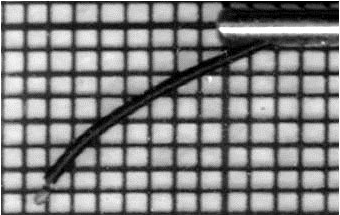
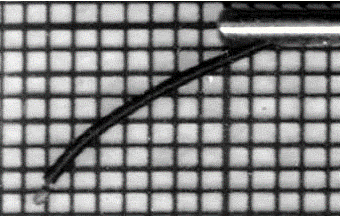
modified ModelStimulator and changed stimulator images

diff --git a/ModelStimulator.m b/ModelStimulator.m
@@ -3,53 +3,79 @@
 % open the stimulator image
 
 FigurePath = '.\';
-FigureName = 'Stimulator_long.png';
+FigureNameShort = 'Stimulator_short.png';
+FigureNameLong = 'Stimulator_long.png';
 
-StimulatorImage = imread([FigurePath,'\',FigureName]);
-StimulatorImage = rgb2gray(StimulatorImage);
+StimulatorImageShort = imread([FigurePath,'\',FigureNameShort]);
+StimulatorImageShort = rgb2gray(StimulatorImageShort);
+StimulatorImageLong = imread([FigurePath,'\',FigureNameLong]);
+StimulatorImageLong = rgb2gray(StimulatorImageLong);
 
-%% Sample the Stimulator Shape
+
+%% Resize Images to match
 
 % set the mm scale on the image
 figure('units','normalized','outerposition',[0 0 1 1])
-imagesc(double(StimulatorImage));colormap(jet);axis image
+imagesc(double(StimulatorImageShort));colormap(jet);axis image
 display('how much is 1 mm on this image? - select two points in 1 mm distance');
-[x_mm_scale,y_mm_scale] = ginput(2);
-if abs(x_mm_scale(1) - x_mm_scale(2)) > abs(y_mm_scale(1) - y_mm_scale(2))
-    mm_scale = abs(x_mm_scale(1) - x_mm_scale(2));
+[x_mm_scale_s,y_mm_scale_s] = ginput(2);
+if abs(x_mm_scale_s(1) - x_mm_scale_s(2)) > abs(y_mm_scale_s(1) - y_mm_scale_s(2))
+    mm_scale_s = abs(x_mm_scale_s(1) - x_mm_scale_s(2));
 else
-    mm_scale = abs(y_mm_scale(1) - y_mm_scale(2));
+    mm_scale_s = abs(y_mm_scale_s(1) - y_mm_scale_s(2));
 end
 
-% select the points on the stimulator upper border
-display('select as many points as you can on the upper border of the stimulator');
-[x_u,y_u] = ginput;
-hold on; scatter(x_u,y_u,'r')
+figure('units','normalized','outerposition',[0 0 1 1])
+imagesc(double(StimulatorImageLong));colormap(jet);axis image
+display('how much is 1 mm on this image? - select two points in 1 mm distance');
+[x_mm_scale_l,y_mm_scale_l] = ginput(2);
+if abs(x_mm_scale_l(1) - x_mm_scale_l(2)) > abs(y_mm_scale_l(1) - y_mm_scale_l(2))
+    mm_scale_l = abs(x_mm_scale_l(1) - x_mm_scale_l(2));
+else
+    mm_scale_l = abs(y_mm_scale_l(1) - y_mm_scale_l(2));
+end
 
-% select the points on the stimulator lower border
-display('select as many points as you can on the lower border of the stimulator');
-[x_l,y_l] = ginput;
-hold on; scatter(x_l,y_l,'r')
+StimulatorImageShort_resize = imresize(StimulatorImageShort,mm_scale_l/mm_scale_s);
+close all
+clc;
+
+StimulatorImageShort_resize = flipud(padarray(flipud(StimulatorImageShort_resize),[size(StimulatorImageLong,1)-size(StimulatorImageShort_resize,1) size(StimulatorImageLong,2)-size(StimulatorImageShort_resize,2)],0,'pre'));
+
+%% Sample the Stimulator Shape
+
+% select the points along the stimulator center 
+figure('units','normalized','outerposition',[0 0 1 1])
+h = imagesc(double(StimulatorImageShort_resize));colormap(jet);axis image
+display('select as many points as you can along the stimulator');
+[x_c_s,y_c_s] = ginput;
+hold on; scatter(x_c_s,y_c_s,'r')
 colormap(gray)
 
-% distance between the cable and the tip of the stimulator
-display('select two points: first at the end of the cable, second at the tip of the stimulator');
-[x_c2t,y_c2t] = ginput(2);
-hold on; scatter(x_c2t,y_c2t,'b')
+figure('units','normalized','outerposition',[0 0 1 1])
+imagesc(double(StimulatorImageLong));colormap(jet);axis image
+display('select as many points as you can along the stimulator');
+[x_c_l,y_c_l] = ginput;
+hold on; scatter(x_c_l,y_c_l,'r')
 colormap(gray)
 
 %% Curve Fitting
 
-f_l = fit(x_l,y_l,'power1');
-f_u = fit(x_u,y_u,'power1');
-hold on; plot(f_l,x_l,y_l);
-hold on; plot(f_u,x_u,y_u);
-figure; xaxis([min(x_l),max(x_l)]);plot(f_l)
+f_c_s = fit(x_c_l,y_c_l,'poly2');
 
+hold on;plot(f_c_s,x_c_l(1:end),y_c_l(1:end));
 
+%% stimulator length calculation
+xtest = min(x_c_l):0.1:max(x_c_l);
+d = 0;
+for i = 1:length(xtest)
+    
+    ytest(i) = feval(f_c_s,xtest(i));
+    if i > 1
+        d = d + sqrt((ytest(i) - ytest(i-1))^2+(xtest(i) - xtest(i-1))^2);
+    end
+    
+end
 
-
-
-
+StimulatorLength = d./mm_scale_l;
 
 
